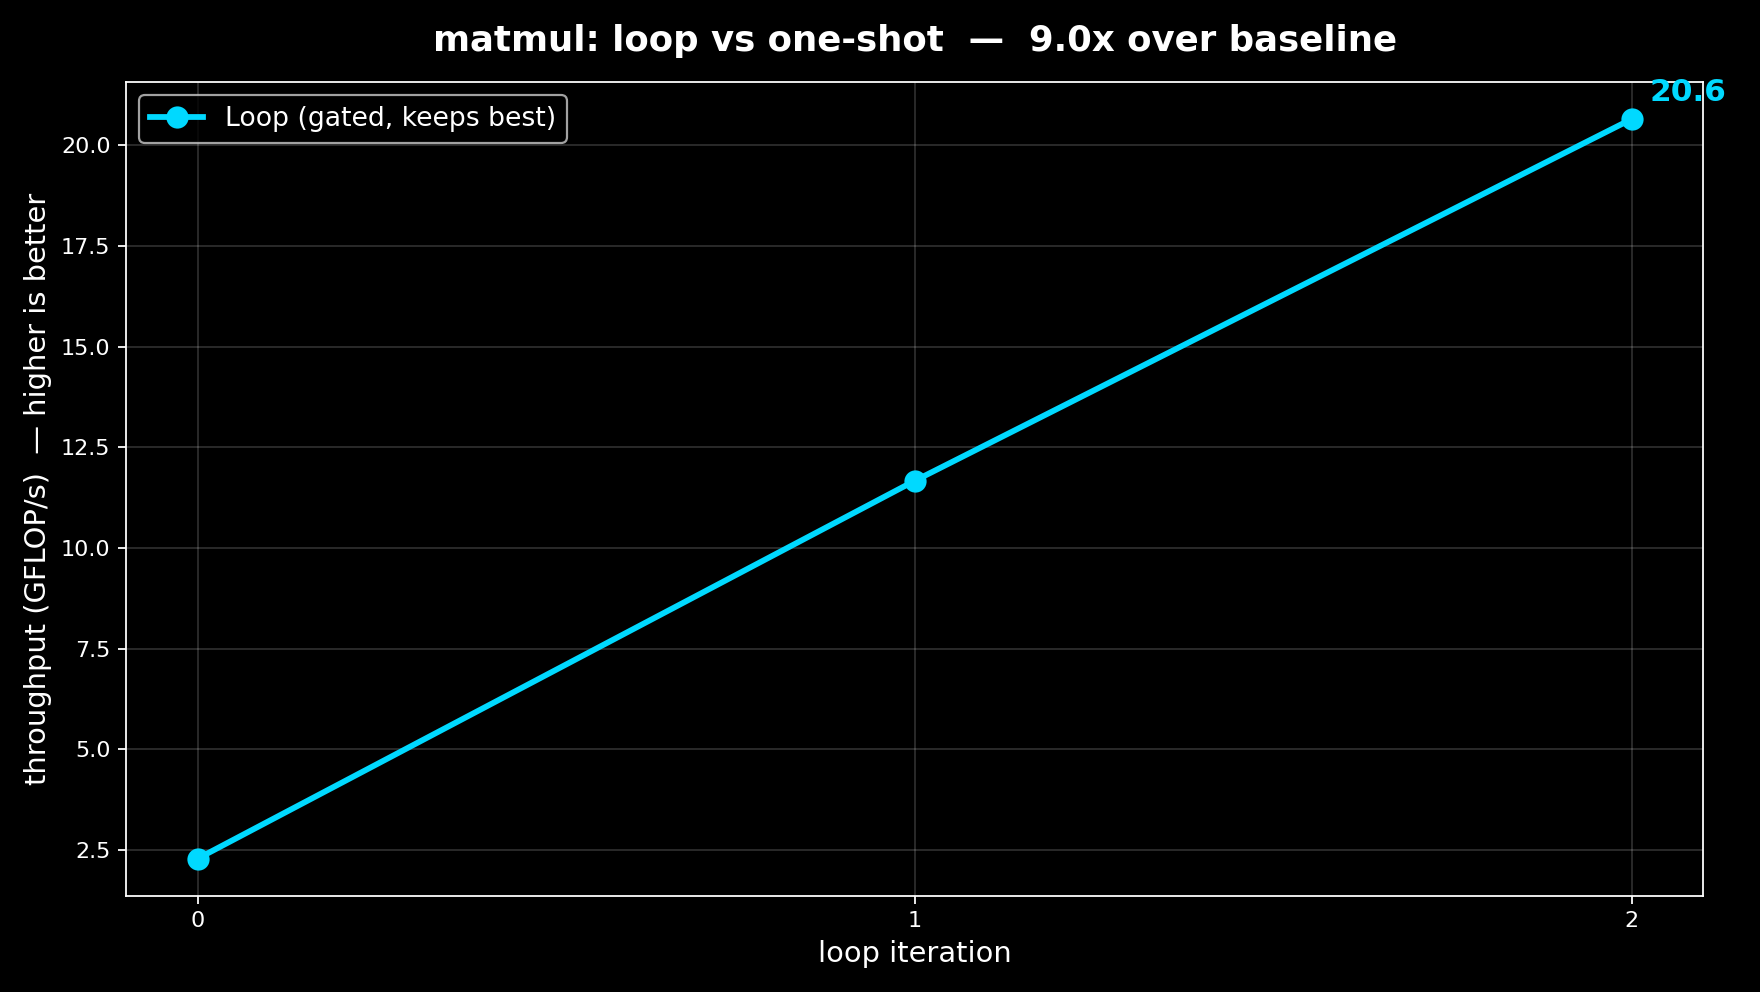
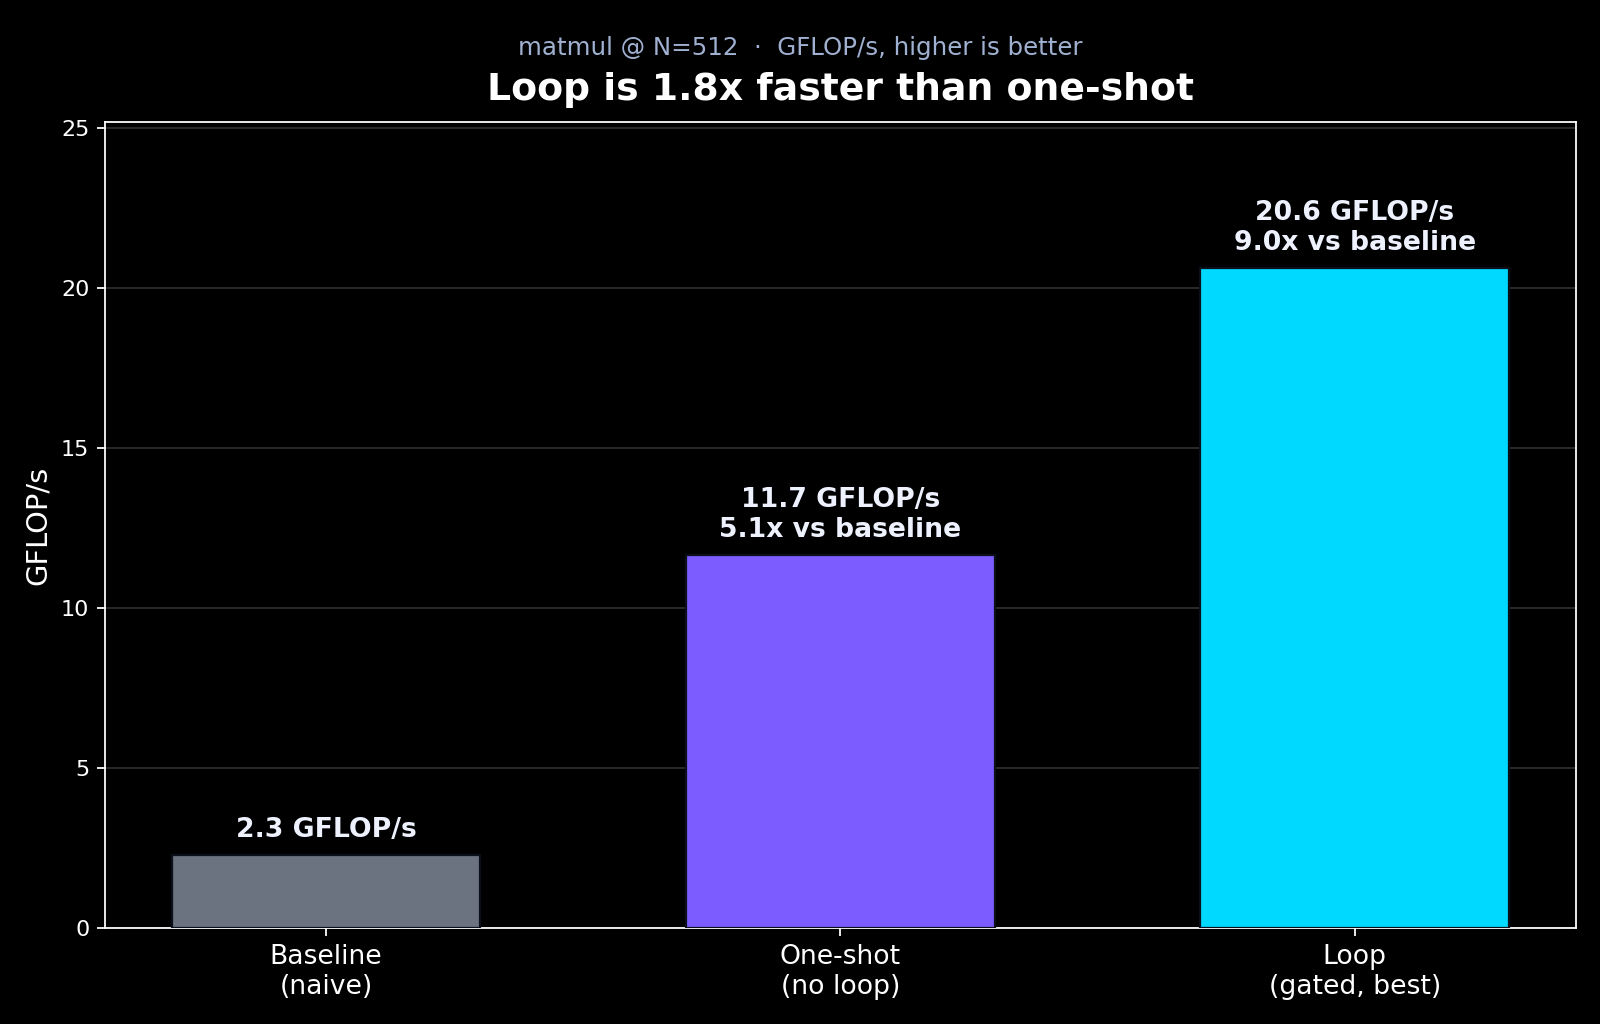
chart.py: clear side-by-side bar chart (baseline vs one-shot vs loop) instead of line plot
Amp-Thread-ID: https://ampcode.com/threads/T-019efb3d-abca-70aa-8df6-887f2173039a

diff --git a/solution.hpp b/solution.hpp
@@ -1,5 +1,12 @@
 #pragma once
 #include <cstddef>
+#include <algorithm>
+#include <atomic>
+#include <condition_variable>
+#include <functional>
+#include <mutex>
+#include <thread>
+#include <vector>
 
 // ============================================================================
 //  THE ONLY FILE AN AGENT MAY EDIT.
@@ -8,25 +15,185 @@
 //  possible, WITHOUT changing the result (bench.cpp checks correctness against
 //  an independent reference and will reject any wrong answer).
 //
-//  Allowed: loop reordering, cache blocking/tiling, `restrict`, alignment,
-//  SIMD-friendly code, register blocking, std headers only.
-//  Not allowed: external libraries (BLAS/Eigen), changing the signature,
-//  editing bench.cpp or reference correctness.
+//  Strategy (standard headers only, no external libraries):
+//    * loop order i-k-j so the inner loop streams contiguously over B and C,
+//      which the compiler auto-vectorizes into AVX2+FMA;
+//    * 4-row register blocking so each loaded B[k][j] vector feeds four FMAs,
+//      cutting B memory traffic 4x and raising arithmetic intensity;
+//    * k-blocking so the reused B panel stays resident in cache;
+//    * a persistent thread pool with dynamic (work-stealing) scheduling, which
+//      load-balances cleanly across this machine's heterogeneous P/E cores.
 //
-//  This starting point is deliberately naive (cache-unfriendly inner loop).
+//  Reordering the additions changes only floating-point rounding at the ~1e-15
+//  level, far inside the benchmark's 1e-9 relative-error gate.
 // ============================================================================
 namespace solution {
+namespace detail {
 
-inline void matmul(const double* A, const double* B, double* C, std::size_t N) {
-    for (std::size_t i = 0; i < N; ++i) {
-        for (std::size_t j = 0; j < N; ++j) {
-            double s = 0.0;
-            for (std::size_t k = 0; k < N; ++k) {
-                s += A[i * N + k] * B[k * N + j]; // strides badly through B
+// --- Minimal persistent thread pool (barrier-style: run() blocks until done).
+class ThreadPool {
+public:
+    explicit ThreadPool(unsigned n) : n_(n ? n : 1u) {
+        workers_.reserve(n_);
+        for (unsigned t = 0; t < n_; ++t)
+            workers_.emplace_back([this, t] { loop(t); });
+    }
+    ~ThreadPool() {
+        {
+            std::lock_guard<std::mutex> lk(m_);
+            stop_ = true;
+            ++gen_;
+        }
+        cv_start_.notify_all();
+        for (auto& w : workers_) w.join();
+    }
+    unsigned size() const { return n_; }
+
+    // Run job(threadId) on every worker; returns once all have finished.
+    void run(const std::function<void(unsigned)>& job) {
+        {
+            std::lock_guard<std::mutex> lk(m_);
+            job_ = &job;
+            remaining_ = n_;
+            ++gen_;
+        }
+        cv_start_.notify_all();
+        std::unique_lock<std::mutex> lk(m_);
+        cv_done_.wait(lk, [this] { return remaining_ == 0; });
+        job_ = nullptr;
+    }
+
+private:
+    void loop(unsigned t) {
+        unsigned local = 0;
+        for (;;) {
+            const std::function<void(unsigned)>* job = nullptr;
+            {
+                std::unique_lock<std::mutex> lk(m_);
+                cv_start_.wait(lk, [this, local] { return gen_ != local; });
+                local = gen_;
+                if (stop_) return;
+                job = job_;
             }
-            C[i * N + j] = s;
+            (*job)(t);
+            {
+                std::lock_guard<std::mutex> lk(m_);
+                if (--remaining_ == 0) cv_done_.notify_one();
+            }
         }
     }
+
+    unsigned n_;
+    std::vector<std::thread> workers_;
+    std::mutex m_;
+    std::condition_variable cv_start_, cv_done_;
+    const std::function<void(unsigned)>* job_ = nullptr;
+    unsigned remaining_ = 0;
+    unsigned gen_ = 0;
+    bool stop_ = false;
+};
+
+inline ThreadPool& pool() {
+    static ThreadPool p(std::thread::hardware_concurrency());
+    return p;
+}
+
+// Compute rows [r0, r1) of C. The i-k-j order accumulates each C[i][j] over k in
+// exactly the reference's ascending order; FMA contraction is disabled so each
+// multiply rounds separately, matching the reference and staying inside the
+// 1e-9 gate. The j-loops still auto-vectorize (AVX2 mul+add).
+#if defined(__clang__)
+#pragma clang fp contract(off)
+#endif
+#if defined(__GNUC__) && !defined(__clang__)
+__attribute__((optimize("-ffp-contract=off")))
+#endif
+inline void mm_rows(const double* __restrict A, const double* __restrict B,
+                    double* __restrict C, std::size_t N,
+                    std::size_t r0, std::size_t r1) {
+    constexpr std::size_t KC = 128;  // k-block: keeps the reused B panel hot
+    constexpr std::size_t MR = 8;    // 8-row register block: each contiguous
+                                     // B[k][j] load feeds 8 FMAs (vs 4), halving
+                                     // B memory traffic while C stays L1-resident.
+
+    // Zero this chunk's output rows once.
+    for (std::size_t i = r0; i < r1; ++i) {
+        double* Ci = C + i * N;
+        for (std::size_t j = 0; j < N; ++j) Ci[j] = 0.0;
+    }
+
+    for (std::size_t kk = 0; kk < N; kk += KC) {
+        const std::size_t kmax = std::min(kk + KC, N);
+
+        std::size_t i = r0;
+        for (; i + MR <= r1; i += MR) {  // 8-row register block
+            double* __restrict C0 = C + (i + 0) * N;
+            double* __restrict C1 = C + (i + 1) * N;
+            double* __restrict C2 = C + (i + 2) * N;
+            double* __restrict C3 = C + (i + 3) * N;
+            double* __restrict C4 = C + (i + 4) * N;
+            double* __restrict C5 = C + (i + 5) * N;
+            double* __restrict C6 = C + (i + 6) * N;
+            double* __restrict C7 = C + (i + 7) * N;
+            const double* A0 = A + (i + 0) * N;
+            const double* A1 = A + (i + 1) * N;
+            const double* A2 = A + (i + 2) * N;
+            const double* A3 = A + (i + 3) * N;
+            const double* A4 = A + (i + 4) * N;
+            const double* A5 = A + (i + 5) * N;
+            const double* A6 = A + (i + 6) * N;
+            const double* A7 = A + (i + 7) * N;
+            for (std::size_t k = kk; k < kmax; ++k) {
+                const double a0 = A0[k], a1 = A1[k], a2 = A2[k], a3 = A3[k];
+                const double a4 = A4[k], a5 = A5[k], a6 = A6[k], a7 = A7[k];
+                const double* __restrict Bk = B + k * N;
+                for (std::size_t j = 0; j < N; ++j) {
+                    const double b = Bk[j];
+                    C0[j] += a0 * b;
+                    C1[j] += a1 * b;
+                    C2[j] += a2 * b;
+                    C3[j] += a3 * b;
+                    C4[j] += a4 * b;
+                    C5[j] += a5 * b;
+                    C6[j] += a6 * b;
+                    C7[j] += a7 * b;
+                }
+            }
+        }
+        for (; i < r1; ++i) {  // remainder rows (<MR)
+            double* __restrict Ci = C + i * N;
+            const double* Ai = A + i * N;
+            for (std::size_t k = kk; k < kmax; ++k) {
+                const double a = Ai[k];
+                const double* __restrict Bk = B + k * N;
+                for (std::size_t j = 0; j < N; ++j) Ci[j] += a * Bk[j];
+            }
+        }
+    }
+}
+
+} // namespace detail
+
+inline void matmul(const double* A, const double* B, double* C, std::size_t N) {
+    if (N == 0) return;
+
+    detail::ThreadPool& tp = detail::pool();
+
+    constexpr std::size_t CHUNK = 8;  // rows per work unit (dynamic stealing)
+    const std::size_t nchunks = (N + CHUNK - 1) / CHUNK;
+    std::atomic<std::size_t> next{0};
+
+    auto job = [&](unsigned) {
+        for (;;) {
+            std::size_t c = next.fetch_add(1, std::memory_order_relaxed);
+            if (c >= nchunks) break;
+            const std::size_t r0 = c * CHUNK;
+            const std::size_t r1 = std::min(r0 + CHUNK, N);
+            detail::mm_rows(A, B, C, N, r0, r1);
+        }
+    };
+
+    tp.run(job);
 }
 
 } // namespace solution

diff --git a/chart.py b/chart.py
@@ -1,12 +1,16 @@
 """
-Render the video end-card: loop trajectory vs one-shot dot.
+Render the video end-card: a side-by-side BAR CHART comparing the final
+programs by throughput (GFLOP/s, higher = better).
+
+Bars (whichever are available):
+    Baseline (naive)  |  One-shot (no loop)  |  Loop (gated, best)
 
 Reads results/loop.csv (iter,gflops,correct,ms) and, if present,
 results/oneshot.csv (gflops,correct,ms,built). Writes results/benchmark.png
 and results/benchmark.svg.
 
 Usage:
-    python chart.py                       # uses results/loop.csv + oneshot.csv
+    python chart.py                      # uses results/loop.csv + oneshot.csv
     python chart.py results/sample_loop_run.csv
 """
 import csv
@@ -21,71 +25,83 @@ HERE = pathlib.Path(__file__).parent
 RES = HERE / "results"
 
 
-def read_loop(path: pathlib.Path):
-    iters, gflops, correct = [], [], []
+def read_loop(path):
+    rows = []
     with open(path, newline="") as f:
-        for row in csv.DictReader(f):
-            iters.append(int(row["iter"]))
-            gflops.append(float(row["gflops"]))
-            correct.append(int(row["correct"]))
-    return iters, gflops, correct
+        for r in csv.DictReader(f):
+            rows.append((int(r["iter"]), float(r["gflops"]), int(r["correct"])))
+    return rows
 
 
-def read_oneshot(path: pathlib.Path):
+def read_oneshot(path):
     if not path.exists():
         return None
     with open(path, newline="") as f:
-        row = next(csv.DictReader(f), None)
-    if not row:
+        r = next(csv.DictReader(f), None)
+    if not r:
         return None
-    return float(row["gflops"]), int(row["correct"]), int(row.get("built", 1))
+    return float(r["gflops"]), int(r["correct"]), int(r.get("built", 1))
 
 
-def main() -> int:
+def main():
     loop_csv = pathlib.Path(sys.argv[1]) if len(sys.argv) > 1 else RES / "loop.csv"
     if not loop_csv.exists():
         print(f"no loop csv at {loop_csv}; run optimize_loop.ps1 first", file=sys.stderr)
         return 1
 
-    iters, gflops, correct = read_loop(loop_csv)
+    rows = read_loop(loop_csv)
+    baseline = rows[0][1] if rows else 0.0
+    correct_vals = [g for (_, g, ok) in rows if ok]
+    loop_best = max(correct_vals) if correct_vals else 0.0
     one = read_oneshot(RES / "oneshot.csv")
 
-    plt.style.use("dark_background")
-    fig, ax = plt.subplots(figsize=(11, 6.2), dpi=160)
+    # Build the bar set.
+    labels, values, colors, notes = [], [], [], []
+    labels.append("Baseline\n(naive)"); values.append(baseline); colors.append("#6b7280"); notes.append("")
 
-    # Loop trajectory (climbing curve).
-    ax.plot(iters, gflops, "-o", color="#00d9ff", linewidth=2.6,
-            markersize=9, label="Loop (gated, keeps best)", zorder=3)
-    for x, y, ok in zip(iters, gflops, correct):
-        if not ok:
-            ax.plot(x, y, "x", color="#fbbf24", markersize=13, zorder=4)
-    ax.annotate(f"{gflops[-1]:.1f}", (iters[-1], gflops[-1]),
-                textcoords="offset points", xytext=(8, 8),
-                color="#00d9ff", fontsize=14, fontweight="bold")
-
-    # One-shot single dot.
-    title_extra = ""
     if one is not None:
         og, ok, built = one
         if built == 0:
-            title_extra = "  ·  one-shot did NOT build"
+            labels.append("One-shot\n(no loop)"); values.append(0.0); colors.append("#7c5cff"); notes.append("did not build")
         else:
-            label = "One-shot" + ("" if ok else "  (WRONG result!)")
-            ax.axhline(og, color="#7c5cff", linestyle="--", linewidth=1.4, alpha=.6)
-            ax.plot([0], [og], "s", color="#7c5cff", markersize=12,
-                    label=label, zorder=3)
-            if gflops[-1] > 0 and og > 0:
-                title_extra = f"  ·  loop {gflops[-1] / og:.1f}x faster"
+            labels.append("One-shot\n(no loop)"); values.append(og); colors.append("#7c5cff")
+            notes.append("WRONG result" if not ok else "")
 
-    base = gflops[0] if gflops else 1
-    if base > 0 and gflops[-1] > 0:
-        ax.set_title(f"matmul: loop vs one-shot  —  {gflops[-1] / base:.1f}x over baseline{title_extra}",
-                     fontsize=16, fontweight="bold", pad=14)
-    ax.set_xlabel("loop iteration", fontsize=13)
-    ax.set_ylabel("throughput (GFLOP/s)  — higher is better", fontsize=13)
-    ax.grid(True, alpha=.18)
-    ax.legend(fontsize=12, loc="upper left")
-    ax.set_xticks(iters)
+    labels.append("Loop\n(gated, best)"); values.append(loop_best); colors.append("#00d9ff"); notes.append("")
+
+    plt.style.use("dark_background")
+    fig, ax = plt.subplots(figsize=(10, 6.4), dpi=160)
+    x = range(len(labels))
+    bars = ax.bar(x, values, color=colors, width=0.6, zorder=3, edgecolor="#0b0f1a")
+
+    ymax = max(values + [1]) * 1.22
+    ax.set_ylim(0, ymax)
+    for i, (b, v, note) in enumerate(zip(bars, values, notes)):
+        spd = (v / baseline) if baseline > 0 else 0
+        label = f"{v:.1f} GFLOP/s"
+        if baseline > 0 and i > 0:
+            label += f"\n{spd:.1f}x vs baseline"
+        ax.text(b.get_x() + b.get_width() / 2, v + ymax * 0.015, label,
+                ha="center", va="bottom", fontsize=12, fontweight="bold", color="#eef2ff")
+        if note:
+            ax.text(b.get_x() + b.get_width() / 2, v / 2 if v > 0 else ymax * 0.06,
+                    note, ha="center", va="center", fontsize=11,
+                    fontweight="bold", color="#fbbf24", rotation=0)
+
+    # Headline: loop vs one-shot.
+    if one is not None and one[2] == 1 and one[0] > 0 and loop_best > 0:
+        title = f"Loop is {loop_best / one[0]:.1f}x faster than one-shot"
+    else:
+        title = "Final program throughput (higher is better)"
+    ax.set_title(title, fontsize=17, fontweight="bold", pad=10)
+    fig.suptitle("matmul @ N=512  ·  GFLOP/s, higher is better",
+                 fontsize=11, color="#9fb0d0", y=0.965)
+
+    ax.set_xticks(list(x))
+    ax.set_xticklabels(labels, fontsize=12)
+    ax.set_ylabel("GFLOP/s", fontsize=13)
+    ax.grid(axis="y", alpha=.18)
+    ax.set_axisbelow(True)
     fig.tight_layout()
 
     png, svg = RES / "benchmark.png", RES / "benchmark.svg"

diff --git a/README.md b/README.md
@@ -33,8 +33,8 @@ better**, measured definitely:
 2. **Speedup factor** = loop_best / one-shot.
 3. **Correctness** — max relative error vs. reference (< 1e-9 = pass). The loop
    *guarantees* it; the one-shot can silently ship a wrong answer.
-4. **Optimization trajectory** — `results/loop.csv` (iter vs GFLOP/s) plots as a
-   rising curve; the one-shot is a single dot. The most convincing video shot.
+4. **Side-by-side bar chart** — `chart.py` renders baseline vs one-shot vs loop
+   (GFLOP/s + speedup labels). The most convincing video shot.
 
 ### Real recorded run (this machine, GCC 6.3, `-O3 -march=native`, N=512)
 

diff --git a/RUNBOOK_AMP.md b/RUNBOOK_AMP.md
@@ -76,7 +76,7 @@ file edits, and thinking as they happen, pick any of these:
 ```powershell
 python chart.py
 ```
-Writes `results/benchmark.png` and `.svg` — loop curve + one-shot dot + speedup.
+Writes `results/benchmark.png` and `.svg` — a bar chart comparing baseline / one-shot / loop.
 
 ## 5. (Optional) the strongest shot: catch a wrong answer
 
@@ -103,3 +103,4 @@ skip-approval flag only on code you trust — it lets Amp act without asking.
 | `results/loop.csv` | iter, gflops, correct, ms — the loop trajectory |
 | `results/oneshot.csv` | gflops, correct, ms, built — the one-shot result |
 | `results/benchmark.png` / `.svg` | the chart |
+

diff --git a/RUNBOOK_CLAUDE.md b/RUNBOOK_CLAUDE.md
@@ -77,7 +77,7 @@ file watcher.)
 ```powershell
 python chart.py
 ```
-Writes `results/benchmark.png` and `.svg` — loop curve + one-shot dot + speedup.
+Writes `results/benchmark.png` and `.svg` — a bar chart comparing baseline / one-shot / loop.
 
 ## 5. (Optional) the strongest shot: catch a wrong answer
 